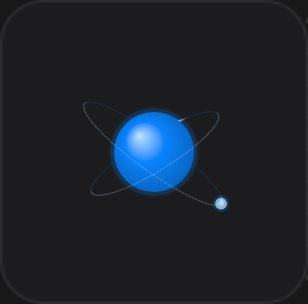
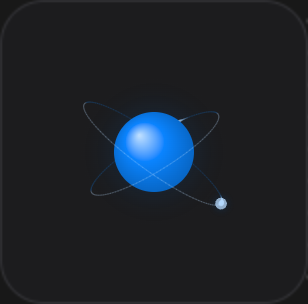
Soften projected star glows and refresh design previews

diff --git a/design/battery-time-indicator/full-charge/full-charge-preview.html b/design/battery-time-indicator/full-charge/full-charge-preview.html
@@ -110,8 +110,10 @@
     ctx.globalAlpha=c.alpha*(.42+.58*depth);ctx.lineCap='round';
     if(c.type==='line'){ctx.strokeStyle=colors[c.color];ctx.lineWidth=c.width;ctx.beginPath();ctx.moveTo(c.a.x,c.a.y);ctx.lineTo(c.b.x,c.b.y);ctx.stroke();}
     else{
-      ctx.save();ctx.globalAlpha*=.19;ctx.fillStyle=colors.accent;ctx.shadowColor=colors.accent;ctx.shadowBlur=.6;
-      ctx.beginPath();ctx.arc(c.x,c.y,c.radius*1.4,0,Math.PI*2);ctx.fill();ctx.restore();
+      ctx.save();ctx.globalAlpha*=.26;
+      const glow=ctx.createRadialGradient(c.x,c.y,0,c.x,c.y,c.radius*2.5);
+      glow.addColorStop(0,colors.accent);glow.addColorStop(1,'transparent');ctx.fillStyle=glow;
+      ctx.beginPath();ctx.arc(c.x,c.y,c.radius*2.5,0,Math.PI*2);ctx.fill();ctx.restore();
       ctx.fillStyle=colors.bright;ctx.beginPath();ctx.arc(c.x,c.y,c.radius,0,Math.PI*2);ctx.fill();
     }
   }
@@ -122,8 +124,9 @@
       const pixels=Math.ceil(canvas.getBoundingClientRect().width*Math.max(2,devicePixelRatio));
       if(canvas.width!==pixels){canvas.width=canvas.height=pixels;}
       ctx.setTransform(pixels/24,0,0,pixels/24,pixels/2,pixels/2);ctx.clearRect(-12,-12,24,24);
-      ctx.globalAlpha=.12*pulse;ctx.fillStyle=colors.accent;ctx.shadowColor=colors.accent;ctx.shadowBlur=3;
-      ctx.beginPath();ctx.arc(0,0,4.4,0,Math.PI*2);ctx.fill();ctx.shadowBlur=0;
+      ctx.globalAlpha=.16*pulse;
+      const halo=ctx.createRadialGradient(0,0,2,0,0,7.5);halo.addColorStop(0,colors.accent);halo.addColorStop(1,'transparent');ctx.fillStyle=halo;
+      ctx.beginPath();ctx.arc(0,0,7.5,0,Math.PI*2);ctx.fill();
       commands.filter(c=>c.z<0).forEach(c=>paintCommand(ctx,c));
       ctx.globalAlpha=1;
       const sphere=ctx.createRadialGradient(-1.45,-1.65,.1,-.2,-.15,4.4);
